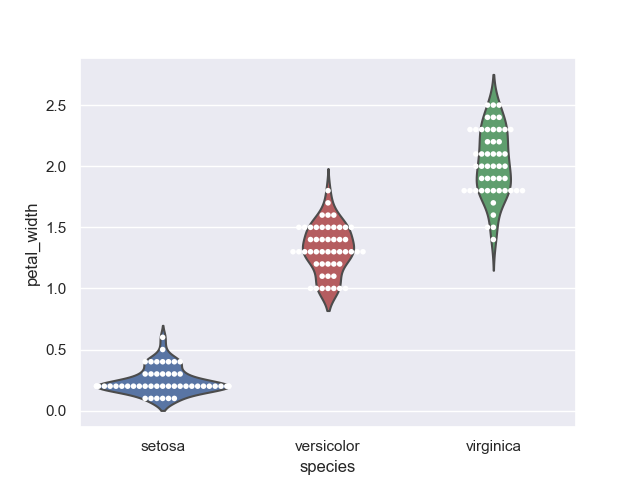
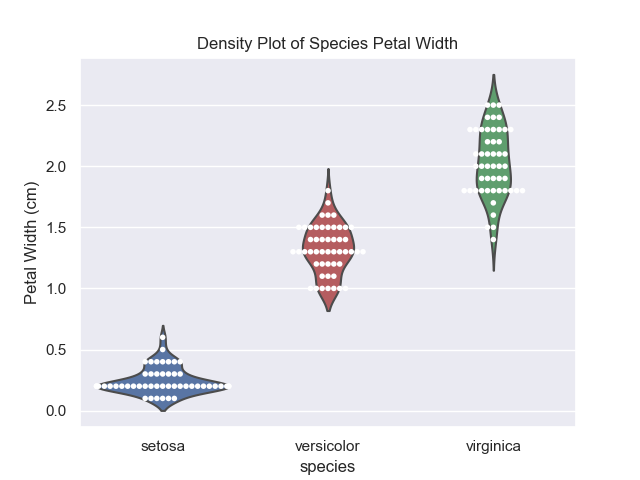
Readme updated & code updated

Changed region(s): [[0.3125, 0.0625, 0.7188, 0.125], [0.0312, 0.375, 0.0625, 0.6562]]

diff --git a/iris.py b/iris.py
@@ -36,10 +36,12 @@ print('----------------------Iris Virginica Values----------------------')
 print(virginica.describe())
 
 # Plot overlapping histograms of each flower categories properties with axis and labels present
+sns.set(style='darkgrid')
 sns.distplot(setosa['sepal_length'], color='b', kde=False, label='Setosa')
 sns.distplot(versicolor['sepal_length'], color='r', kde=False, label='Versicolor')
 sns.distplot(virginica['sepal_length'], color='g', kde=False, label='Virginica')
 plt.legend()
+plt.title('Quantity of Sepal Lengths')
 plt.xlabel('Sepal Length (cm)')  
 plt.ylabel('Quantity')  
 plt.savefig('images\Outputs\Hist-Sepal_Length.png')
@@ -49,6 +51,7 @@ sns.distplot(setosa['sepal_width'], color='b', kde=False, label='Setosa')
 sns.distplot(versicolor['sepal_width'], color='r', kde=False, label='Versicolor')
 sns.distplot(virginica['sepal_width'], color='g', kde=False, label='Virginica')
 plt.legend()
+plt.title('Quantity of Sepal Widths')
 plt.xlabel('Sepal Width (cm)')  
 plt.ylabel('Quantity')  
 plt.savefig('images\Outputs\Hist-Sepal_Width.png')
@@ -58,6 +61,7 @@ sns.distplot(setosa['petal_length'], color='b', kde=False, label='Setosa')
 sns.distplot(versicolor['petal_length'], color='r', kde=False, label='Versicolor')
 sns.distplot(virginica['petal_length'], color='g', kde=False, label='Virginica')
 plt.legend()
+plt.title('Quantity of Petal Lengths')
 plt.xlabel('Petal Length (cm)')  
 plt.ylabel('Quantity')  
 plt.savefig('images\Outputs\Hist-Petal_Length.png')
@@ -67,33 +71,43 @@ sns.distplot(setosa['petal_width'], color='b', kde=False, label='Setosa')
 sns.distplot(versicolor['petal_width'], color='r', kde=False, label='Versicolor')
 sns.distplot(virginica['petal_width'], color='g', kde=False, label='Virginica')
 plt.legend()
+plt.title('Quantity of Petal Widths')
 plt.xlabel('Petal Width (cm)')  
 plt.ylabel('Quantity')  
 plt.savefig('images\Outputs\Hist-Petal_Width.png')
 plt.show()
 
 # Setup for violinplot display with datapoints highlighted in white using swarmplot and print graph 
-sns.set(style='darkgrid')
+
 sns.violinplot(x='species', y='sepal_length', palette=['b', 'r', 'g'], data=iris, inner=None)
 sns.swarmplot(x='species', y='sepal_length', data=iris, color='white', edgecolor='gray', size=4)
+plt.title('Density Plot of Species Sepal Length')
+plt.ylabel('Sepal Length (cm)')
 plt.savefig('images\Outputs\Violin-Sepal_Length.png')
 plt.show()
 
 sns.violinplot(x='species', y='sepal_width', palette=['b', 'r', 'g'], data=iris, inner=None)
 sns.swarmplot(x='species', y='sepal_width', data=iris, color='white', edgecolor='gray', size=4)
+plt.title('Density Plot of Species Sepal Width')
+plt.ylabel('Sepal Width (cm)')
 plt.savefig('images\Outputs\Violin-Sepal_Width.png')
 plt.show()
 
 sns.violinplot(x='species', y='petal_length', palette=['b', 'r', 'g'], data=iris, inner=None)
 sns.swarmplot(x='species', y='petal_length', data=iris, color='white', edgecolor='gray', size=4)
+plt.title('Density Plot of Species Petal Length')
+plt.ylabel('Petal Length (cm)')
 plt.savefig('images\Outputs\Violin-Petal_Length.png')
 plt.show()
 
 sns.violinplot(x='species', y='petal_width', palette=['b', 'r', 'g'], data=iris, inner=None)
 sns.swarmplot(x='species', y='petal_width', data=iris, color='white', edgecolor='gray', size=4)
+plt.title('Density Plot of Species Petal Width')
+plt.ylabel('Petal Width (cm)')
 plt.savefig('images\Outputs\Violin-Petal_Width.png')
 plt.show()
 
+# Setup for scatterplots display in 4x4 arrangement with o markers and colours matched to originally defined above blue, red and green.
 sns.pairplot(hue='species', markers='o', data=iris, palette=['b', 'r', 'g'])
 plt.savefig('images\Outputs\pairplot.png')
 plt.show()

diff --git a/README.md b/README.md
@@ -28,11 +28,11 @@ The instructions issued to us can be found here- [link](https://github.com/ianmc
 
 3. [Visualisation Of Data](#visualisation)
 
-    3.1 [Histogrmas](#hist)
+    3.1 [Histograms](#hist)
 
     3.2 [Violinplots](#vio)
 
-    3.3 [Pairplot](#sca)
+    3.3 [Scatterplots](#sca)
 
 4. [Concluding Remarks](#conc)
 
@@ -121,7 +121,7 @@ The violin plot is a method of graphically depicting numerical data through thei
 
 <a name="sca"></a>
 
-### 3.3 <u>Pairplot</u>
+### 3.3 <u>Scatterplots</u>
 
 Scatterplots are used for displaying information across three variables with colour coding for a data set. From the below images you can clearly see the setosa plant can be seperated and easily identified using its petal dimensions. This is not as clear cut for the versicolour and virginica though as there is considerable overlap even if we do see that the virginica does trend toward the larger size petal and sepal.
 
